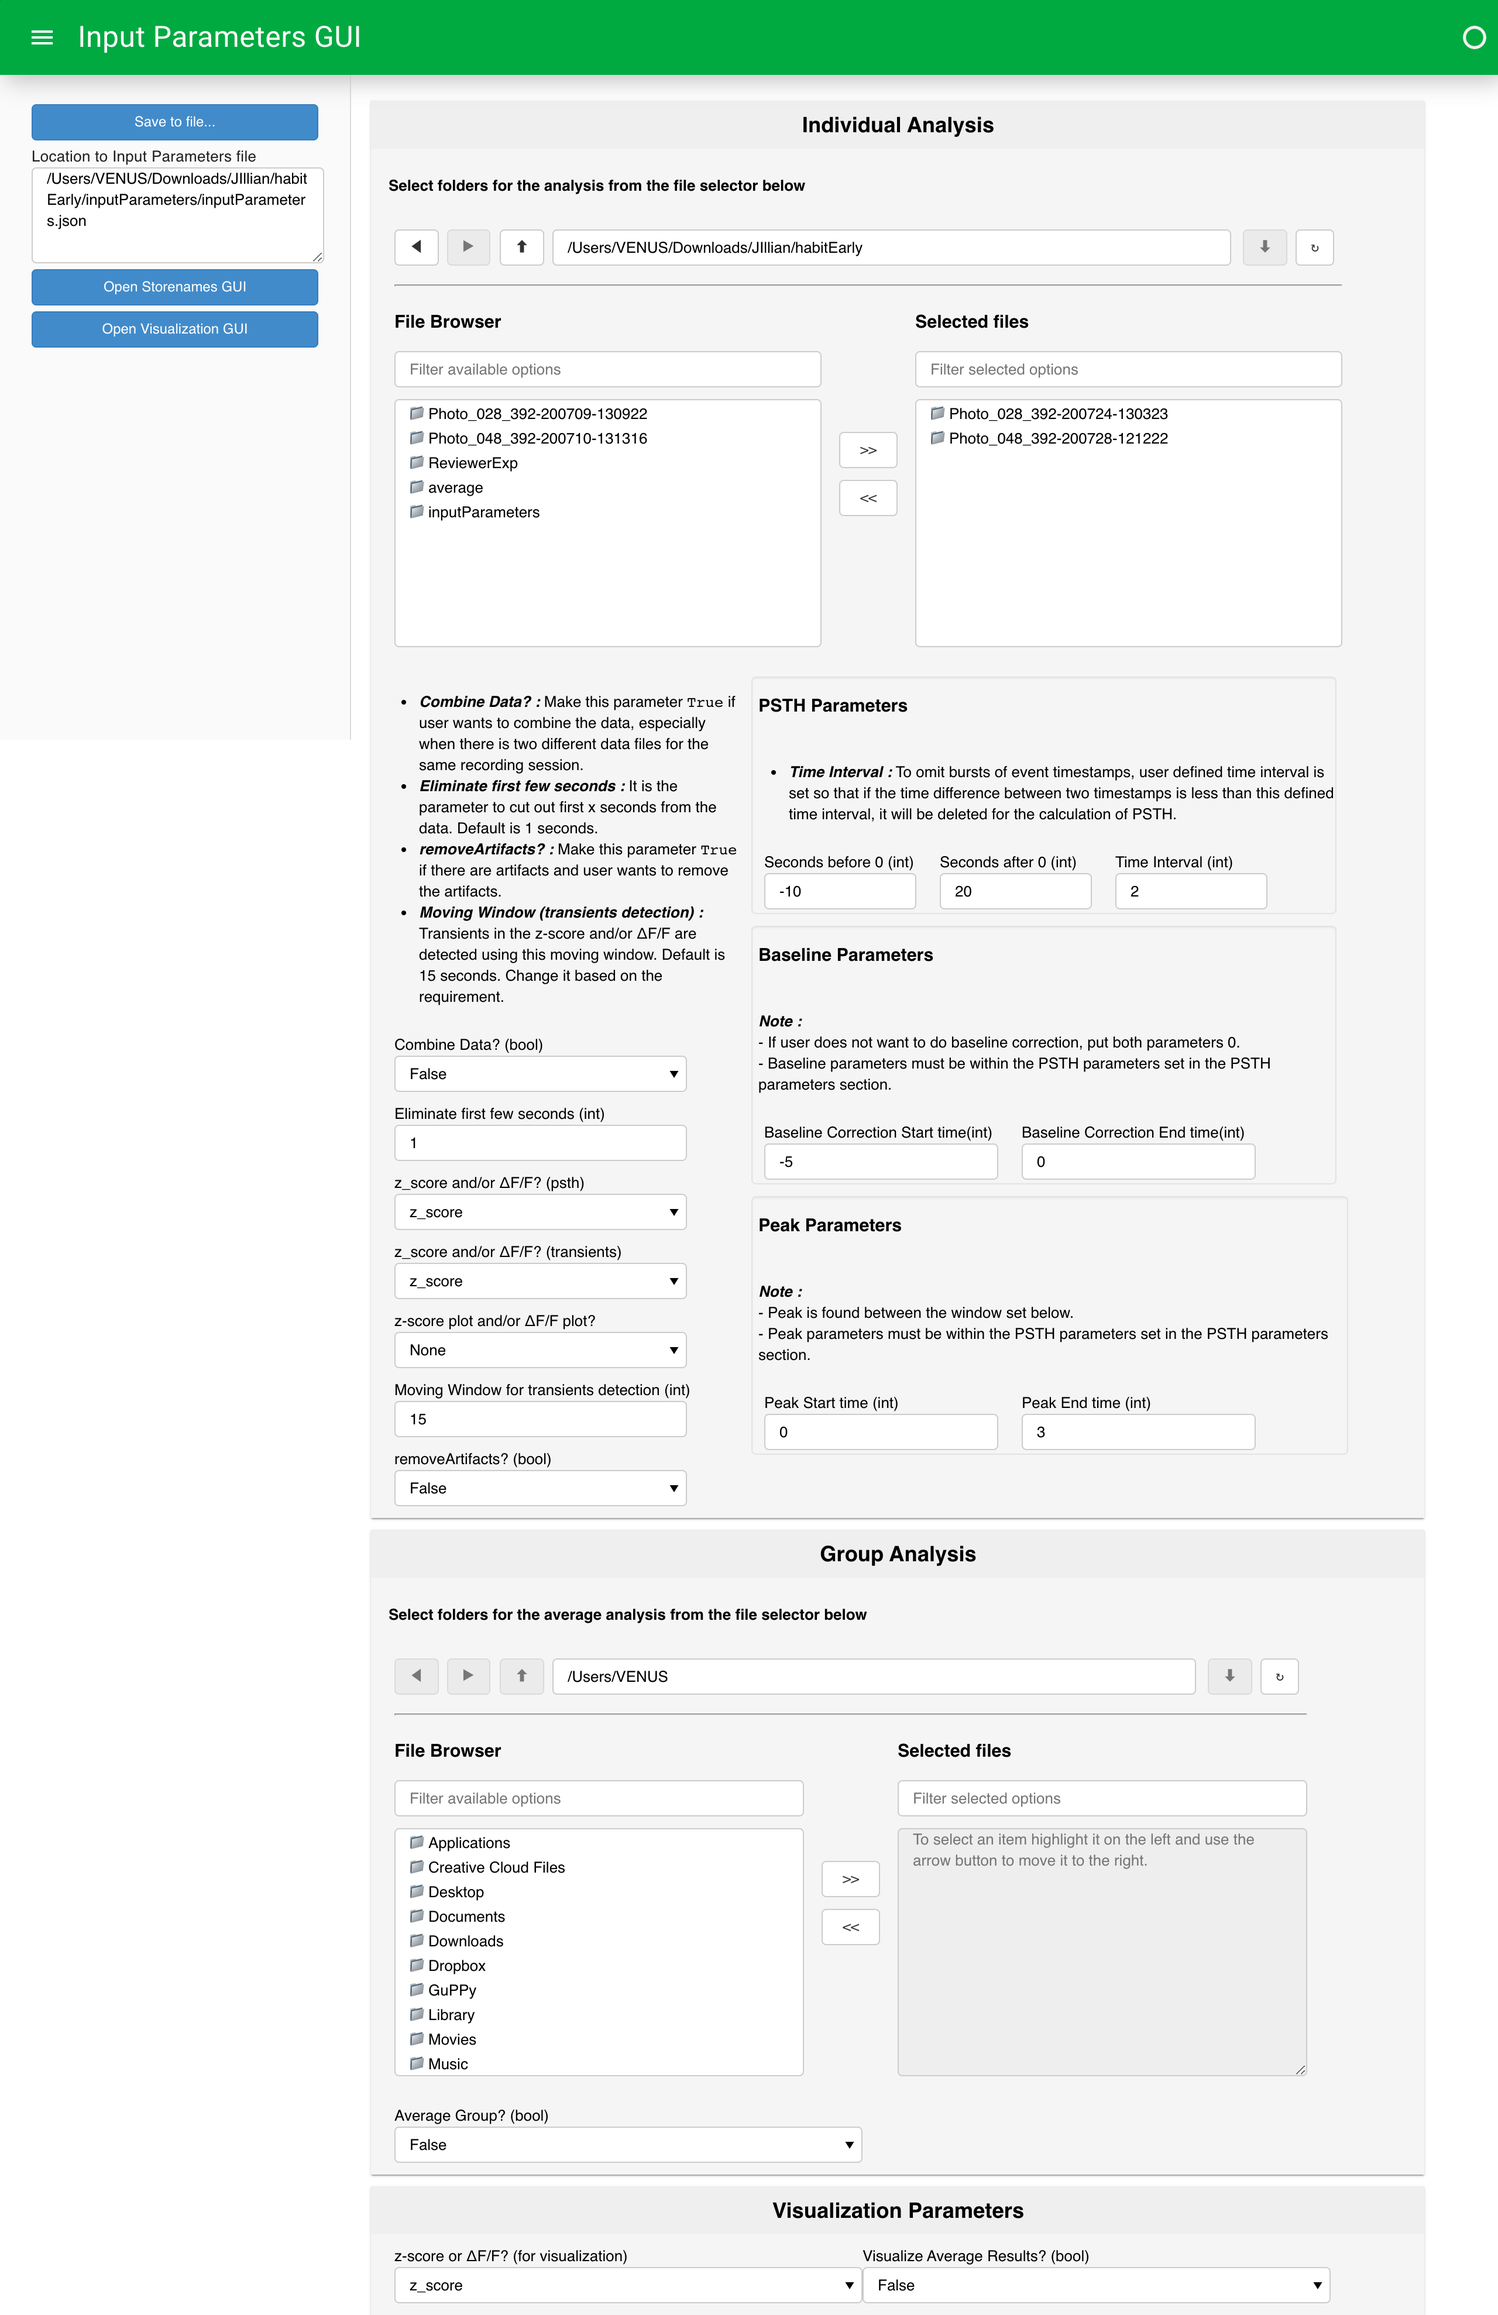
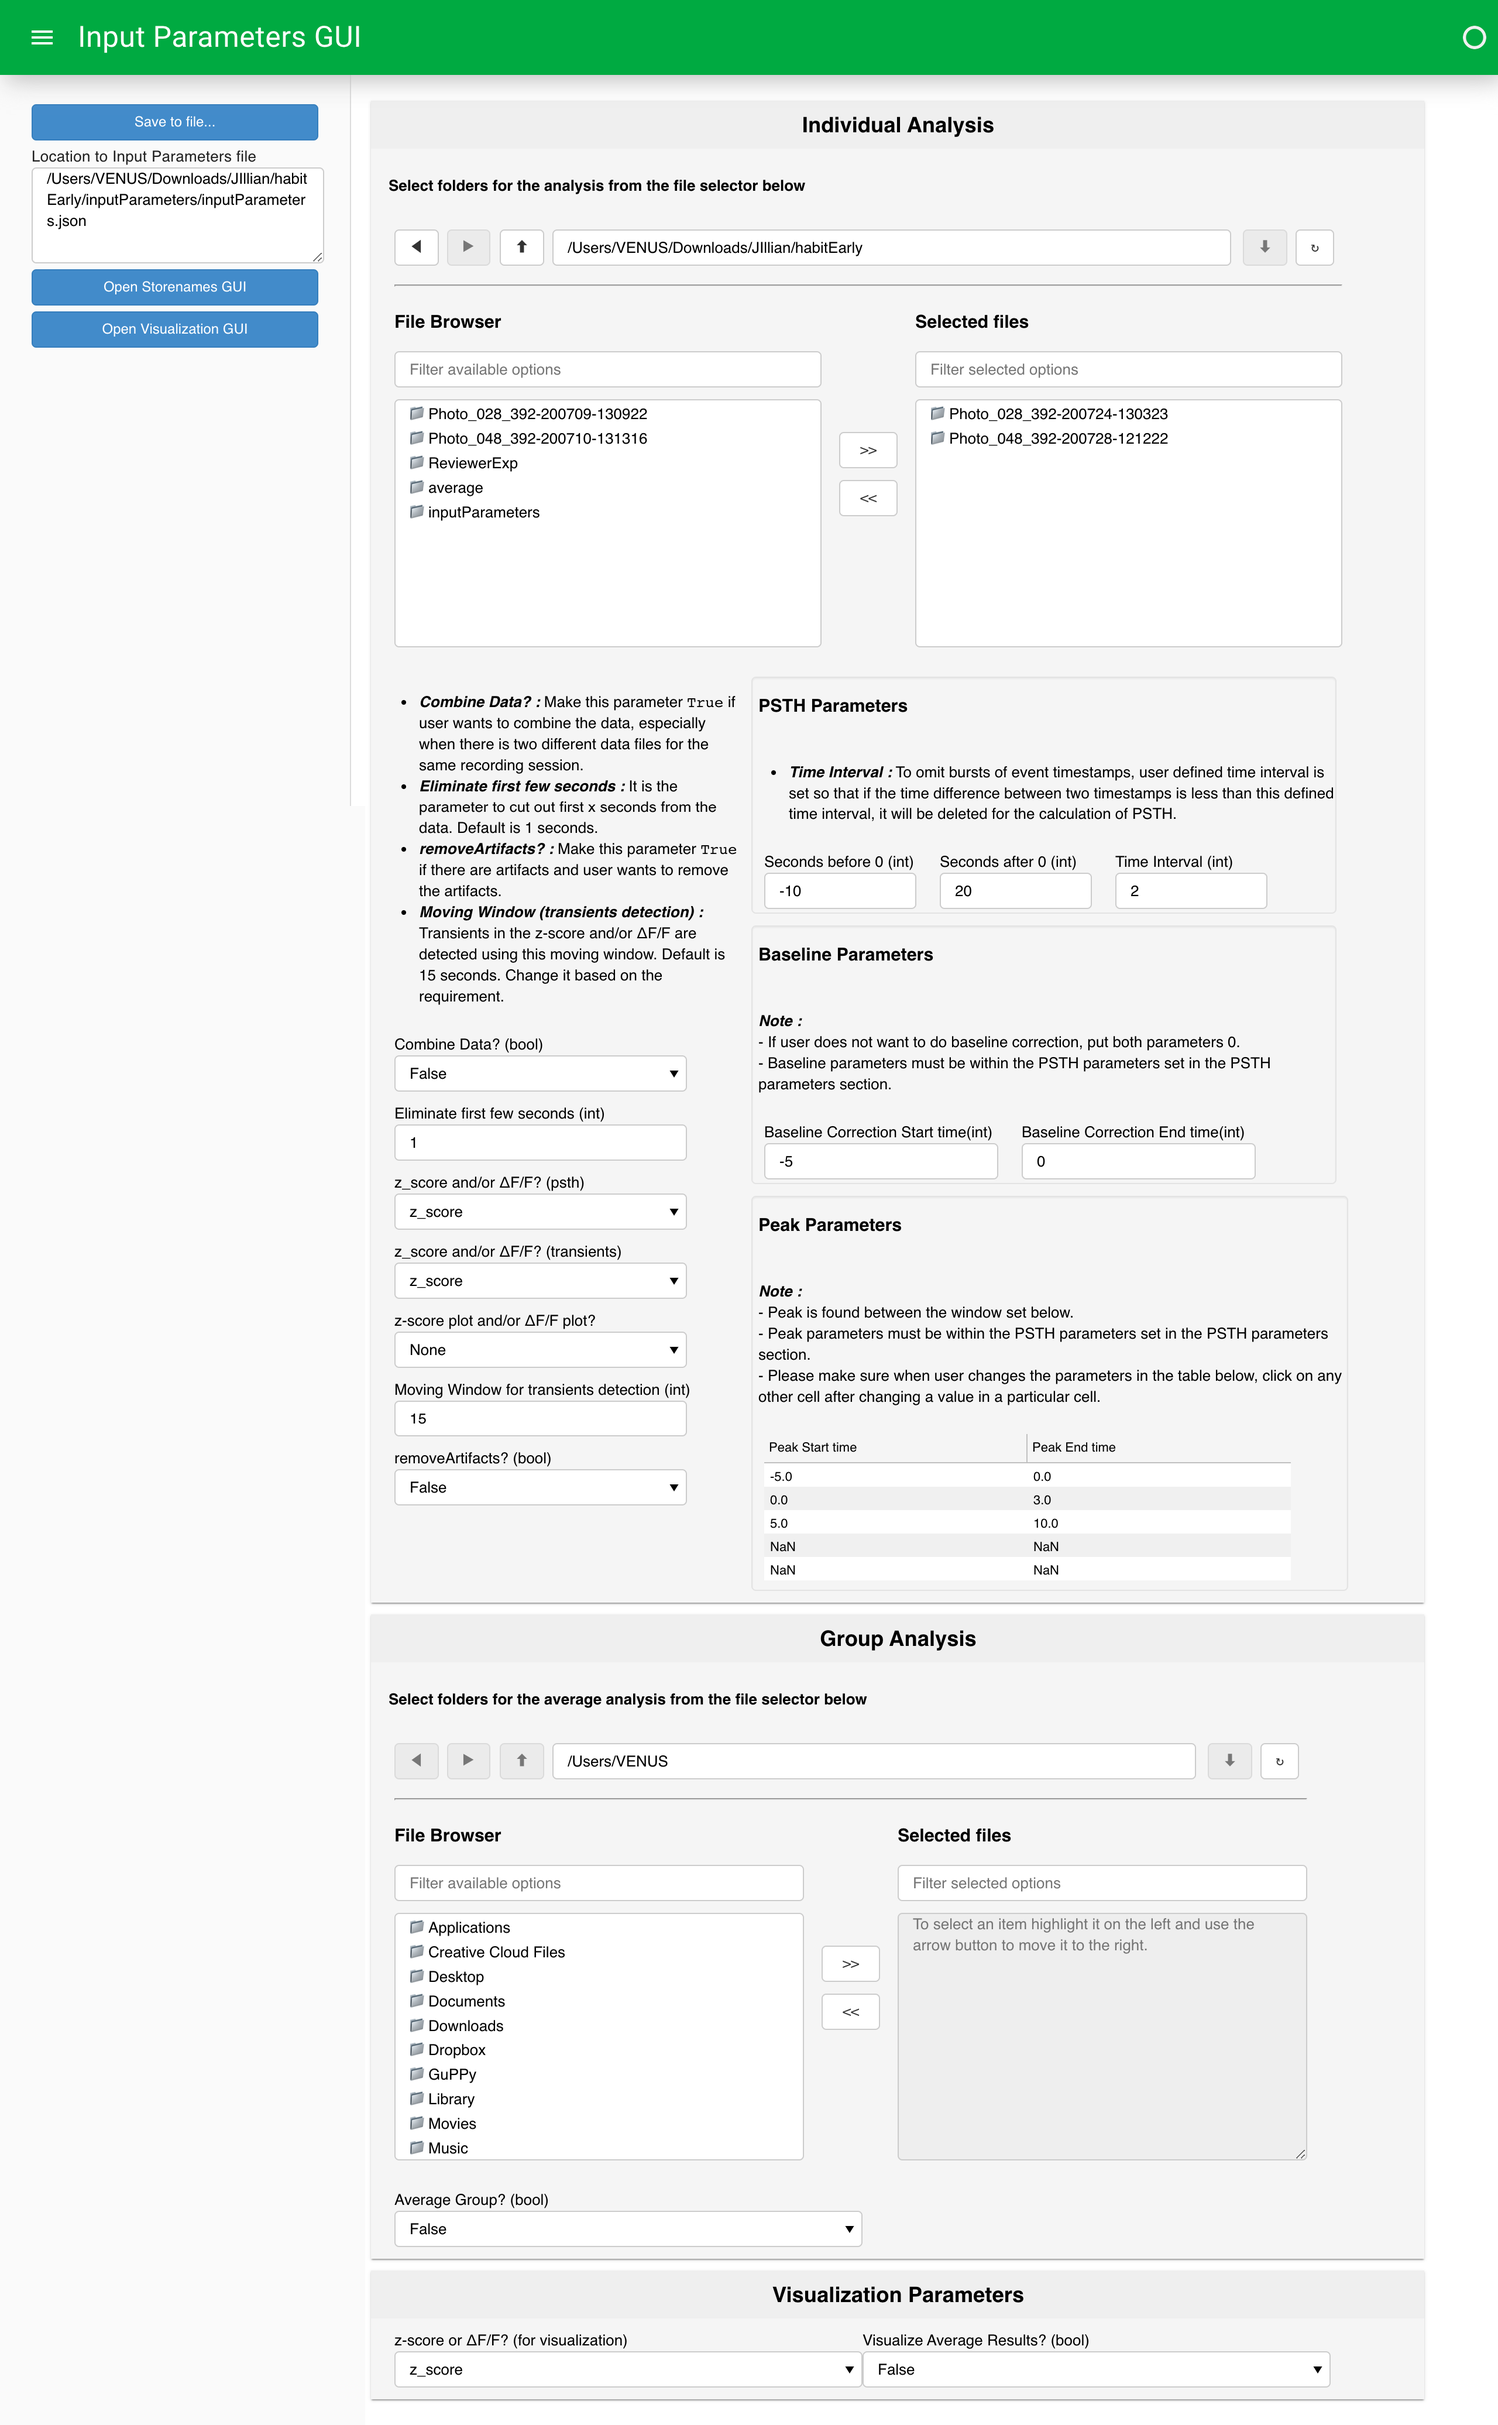
multiple window for peak and AUC

diff --git a/GuPPy/computePsth.py b/GuPPy/computePsth.py
@@ -6,6 +6,7 @@ import h5py
 import math
 import pandas as pd
 from scipy import signal as ss
+from collections import OrderedDict
 from preprocess import get_all_stores_for_combining_data
 
 
@@ -50,12 +51,12 @@ def write_hdf5(data, event, filepath, key):
 				f.create_dataset(key, data=data, maxshape=(None, ), chunks=True)
 
 
-def create_Df_area_peak(filepath, arr, name, index=[], columns=[]):
+def create_Df_area_peak(filepath, arr, name, index=[]):
 
 	op = os.path.join(filepath, 'peak_AUC_'+name+'.h5')
 	dirname = os.path.dirname(filepath)
 
-	df = pd.DataFrame(arr, index=index, columns=columns)
+	df = pd.DataFrame(arr, index=index)
 
 	df.to_hdf(op, key='df', mode='w')
 
@@ -65,9 +66,10 @@ def read_Df_area_peak(filepath, name):
 
 	return df
 
-def create_csv_area_peak(filepath, arr, name, index=[], columns=[]):
+def create_csv_area_peak(filepath, arr, name, index=[]):
 	op = os.path.join(filepath, 'peak_AUC_'+name+'.csv')
-	df = pd.DataFrame(arr, index=index, columns=columns)
+	df = pd.DataFrame(arr, index=index)
+	
 	df.to_csv(op)
 
 
@@ -262,34 +264,54 @@ def storenamePsth(filepath, event, inputParameters, storesList):
 
 			print("PSTH for event {} computed.".format(event))
 
+
 def helperPSTHPeakAndArea(psth_mean, timestamps, sampling_rate, peak_startPoint, peak_endPoint):
 
-	startPtForPeak = np.where(timestamps>=peak_startPoint)[0]
-	endPtForPeak = np.where(timestamps>=peak_endPoint)[0]
+	peak_startPoint = np.asarray(peak_startPoint)
+	peak_endPoint = np.asarray(peak_endPoint)
 
-	if len(startPtForPeak)>=1 and len(endPtForPeak)>=1:
-		peakPoint = startPtForPeak[0] + np.argmax(psth_mean[startPtForPeak[0]:endPtForPeak[0]])
-		peak = psth_mean[peakPoint]
-	else:
-		peak = None
+	peak_startPoint = peak_startPoint[~np.isnan(peak_startPoint)]
+	peak_endPoint = peak_endPoint[~np.isnan(peak_endPoint)]
 
-	areaStrtPt = np.where(timestamps>=peak_startPoint)[0][0]
-	for i in range(areaStrtPt, psth_mean.shape[0]):
-	    arr = psth_mean[i:int(i+(0.5*sampling_rate))]
-	    if psth_mean[i]<0 and (arr<0).all():
-	        areaEndPt = i
-	        break
+	#print(peak_startPoint, peak_endPoint)
 
-	if i==(psth_mean.shape[0])-1:
-	    areaEndPt = psth_mean.shape[0]-1
+	if peak_startPoint.shape[0]!=peak_endPoint.shape[0]:
+		raise Exception('Number of Peak Start Time and Peak End Time are unequal.')
 
-	area = np.trapz(psth_mean[areaStrtPt:areaEndPt])
-	
-	if peak_startPoint==0 and peak_endPoint==0:
-		return -1, area
-	else:
-		return peak, area
+	if np.less_equal(peak_endPoint, peak_startPoint).any()==True:
+		raise Exception('Peak End Time is lesser than or equal to Peak Start Time. Please check the Peak parameters window.')
 
+	#print(peak_startPoint, peak_endPoint)
+
+	peak_area = OrderedDict()
+
+	if peak_startPoint.shape[0]==0 or peak_endPoint.shape[0]==0:
+		peak_area['peak'] = np.nan
+		peak_area['area'] = np.nan
+
+	for i in range(peak_startPoint.shape[0]):
+		startPtForPeak = np.where(timestamps>=peak_startPoint[i])[0]
+		endPtForPeak = np.where(timestamps>=peak_endPoint[i])[0]
+		if len(startPtForPeak)>=1 and len(endPtForPeak)>=1:
+			peakPoint = startPtForPeak[0] + np.argmax(psth_mean[startPtForPeak[0]:endPtForPeak[0]])
+			peak_area['peak_'+str(i+1)] = psth_mean[peakPoint]
+
+			for j in range(startPtForPeak[0], endPtForPeak[0]):
+				arr = psth_mean[j:int(j+(0.5*sampling_rate))]
+				if psth_mean[j]<0 and (arr<0).all():
+					areaEndPt = j
+					break
+			if j==endPtForPeak[0]-1:
+				areaEndPt = endPtForPeak[0]-1
+
+			peak_area['area_'+str(i+1)] = np.trapz(psth_mean[startPtForPeak[0]:areaEndPt])
+		else:
+			peak_area['peak_'+str(i+1)] = np.nan
+			peak_area['area_'+str(i+1)] = np.nan
+
+	#print(peak_area)
+
+	return peak_area
 
 
 # function to compute PSTH peak and area using the function helperPSTHPeakAndArea save the values to h5 and csv files.
@@ -321,11 +343,11 @@ def findPSTHPeakAndArea(filepath, event, inputParameters, storesList):
 			psth = read_Df(filepath, event+'_'+name_1, basename)
 			psth_mean = np.asarray(psth['mean'])
 			timestamps = np.asarray(read_Df(filepath, 'ts_psth', '')).ravel()
-			peak, area = helperPSTHPeakAndArea(psth_mean, timestamps, sampling_rate, peak_startPoint, peak_endPoint)
-			arr = np.array([[peak, area]])
+			peak_area = helperPSTHPeakAndArea(psth_mean, timestamps, sampling_rate, peak_startPoint, peak_endPoint)   # peak, area = 
+			#arr = np.array([[peak, area]])
 			fileName = [os.path.basename(os.path.dirname(filepath))]
-			create_Df_area_peak(filepath, arr, event+'_'+name_1+'_'+basename, index=fileName, columns=['peak', 'area'])
-			create_csv_area_peak(filepath, arr, event+'_'+name_1+'_'+basename, index=fileName, columns=['peak', 'area'])
+			create_Df_area_peak(filepath, peak_area, event+'_'+name_1+'_'+basename, index=fileName) # columns=['peak', 'area']
+			create_csv_area_peak(filepath, peak_area, event+'_'+name_1+'_'+basename, index=fileName)
 
 			print('Peak and Area for PSTH mean signal for event {} computed.'.format(event))
 
@@ -413,12 +435,14 @@ def averageForGroup(folderNames, event, inputParameters):
 				continue
 			else:
 				df = read_Df_area_peak(temp_path[j][0], temp_path[j][1]+'_'+temp_path[j][2])
-				arr.append(np.array([df['peak'][0], df['area'][0]]))
+				arr.append(df)
 				fileName.append(os.path.basename(temp_path[j][0]))
 		
-		arr = np.asarray(arr)
-		create_Df_area_peak(op, arr, temp_path[j][1]+'_'+temp_path[j][2], index=fileName, columns=['peak', 'area'])
-		create_csv_area_peak(op, arr, temp_path[j][1]+'_'+temp_path[j][2], index=fileName, columns=['peak', 'area'])
+		new_df = pd.concat(arr, axis=0)  #os.path.join(filepath, 'peak_AUC_'+name+'.csv')
+		new_df.to_csv(os.path.join(op, 'peak_AUC_{}_{}.csv'.format(temp_path[j][1], temp_path[j][2])), index=fileName)
+		new_df.to_hdf(os.path.join(op, 'peak_AUC_{}_{}.h5'.format(temp_path[j][1], temp_path[j][2])), key='df', mode='w', index=fileName)
+		#create_Df_area_peak(op, new_df, temp_path[j][1]+'_'+temp_path[j][2], index=fileName)
+		#create_csv_area_peak(op, new_df, temp_path[j][1]+'_'+temp_path[j][2], index=fileName)
 
 	print("Group of data averaged.")
 
